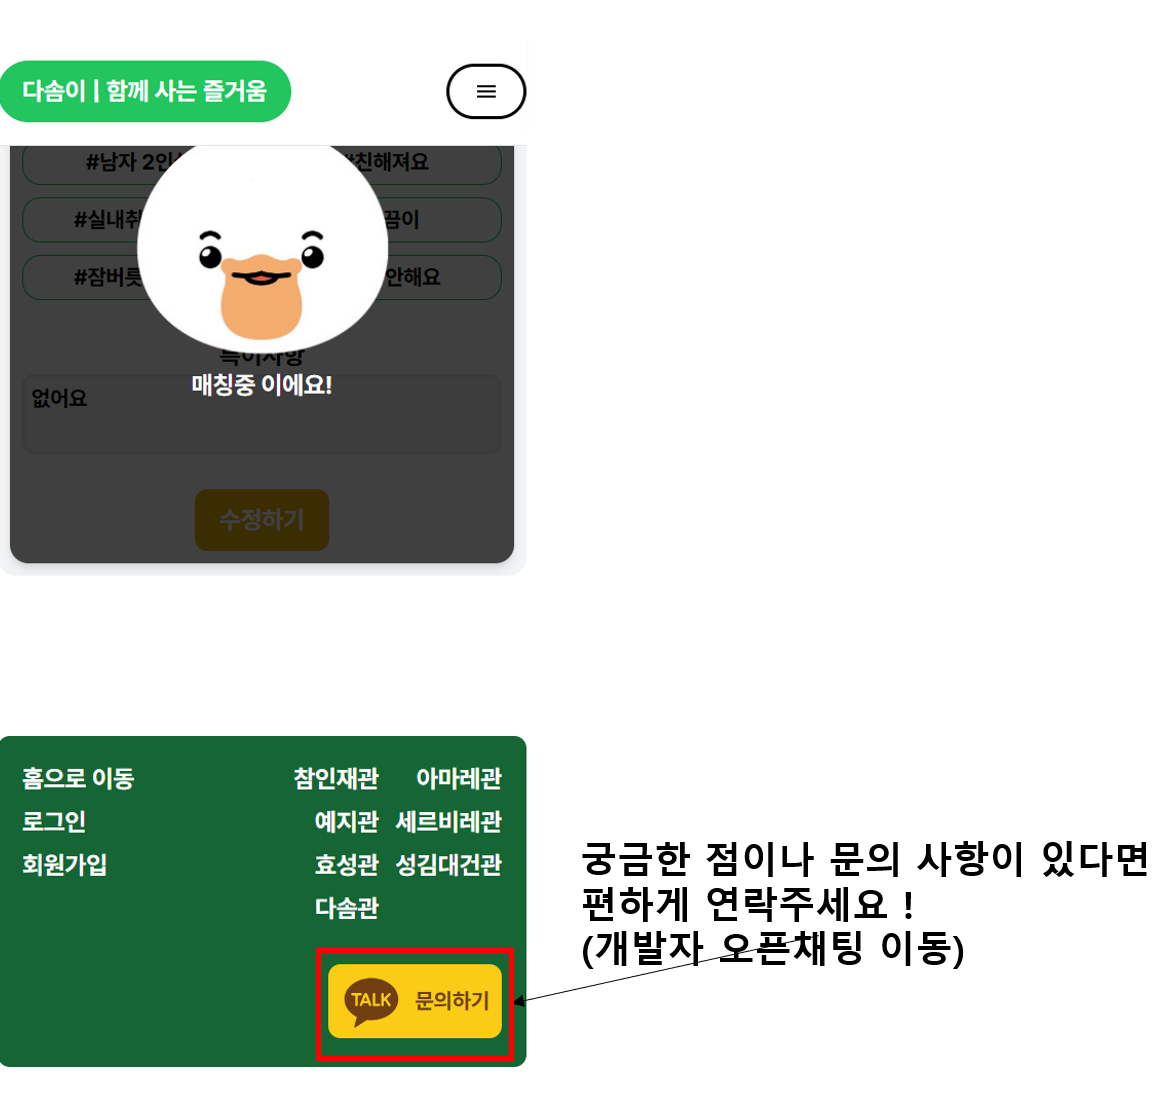
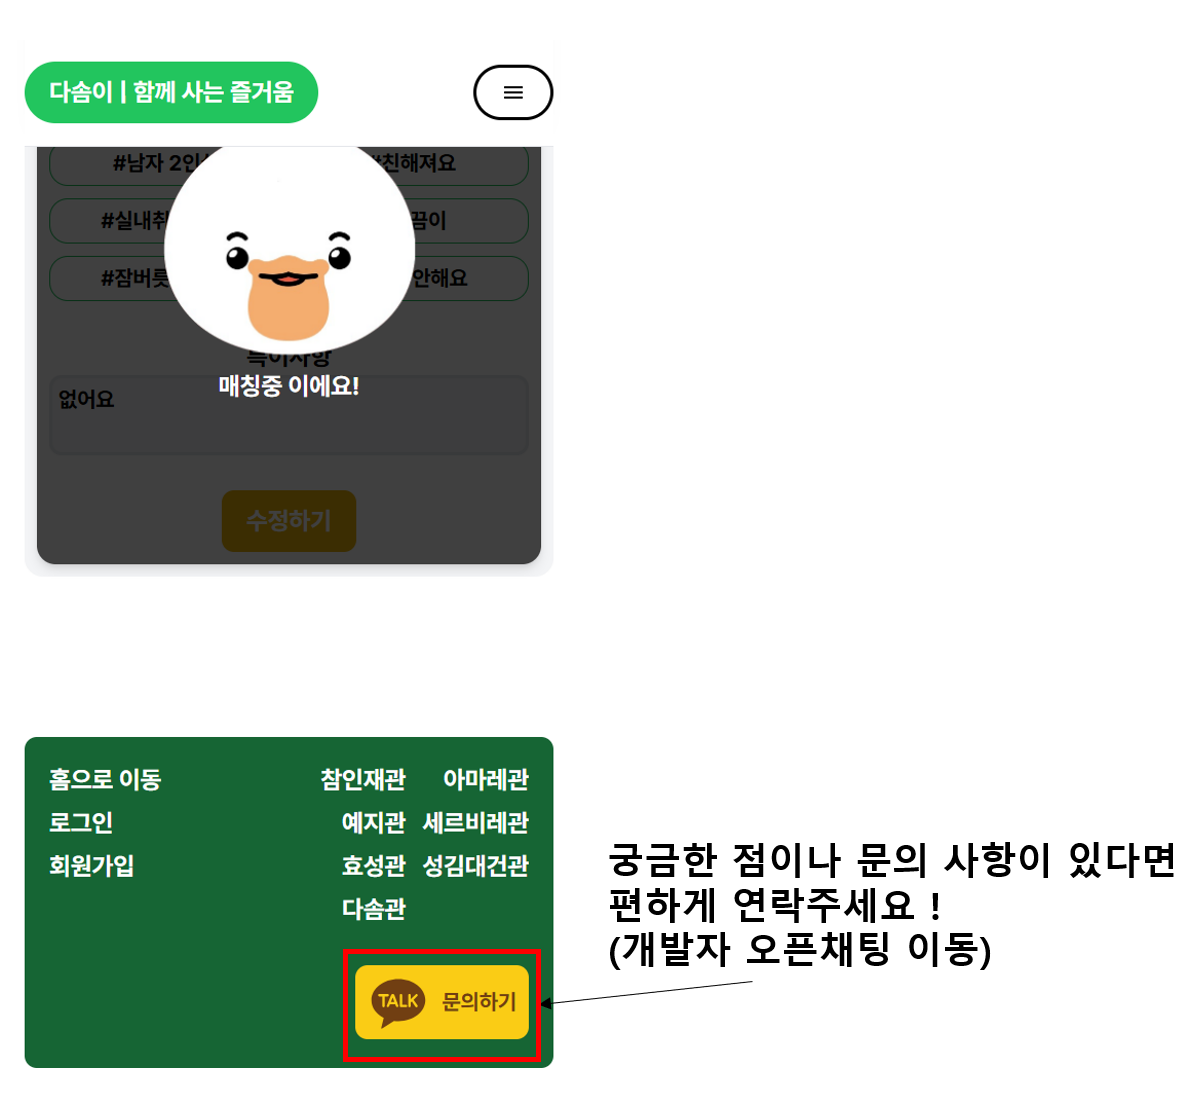
update - 룸메이트 이미지 등록에서 이미지 변경으로 문구 변경, 이용안내 사진 화살표와 글자 겹침 수정

diff --git a/src/components/myRoomMateGroup/CreateMyRoomMate.tsx b/src/components/myRoomMateGroup/CreateMyRoomMate.tsx
@@ -129,7 +129,7 @@ export default function CreateMyRoomMate({
                                 <EdgeButton
                                     onClick={() => setImgModalOpen(true)}
                                 >
-                                    이미지 등록
+                                    이미지 변경
                                 </EdgeButton>
                             </div>
                         </div>
